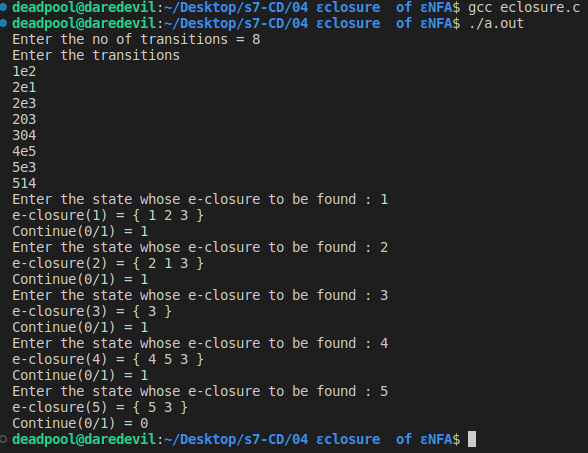
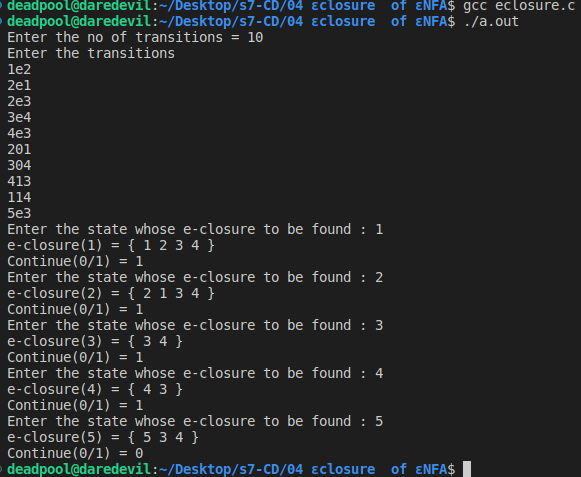
eclosure fixed - also work in case of loops

Changed region(s): [[0.0, 0.0, 0.9914, 1.0]]

diff --git a/04 εclosure  of εNFA/eclosure.c b/04 εclosure  of εNFA/eclosure.c
@@ -5,6 +5,17 @@
 int n,m = 0,p=0;
 char a[10][10],f[10],d[10];
 
+void remove_duplicate(){
+    int i,j;
+    for(i=0;i<m;i++){
+        for(j=i+1;j<m;j++){
+            if(f[i]==f[j]){
+                f[j]='*';
+            }
+        }
+    }
+}
+
 int check(){
     int i,flag=0;
     if(p>=3){
@@ -57,10 +68,13 @@ int main() {
         printf("Enter the state whose e-closure to be found : ");
         scanf("%c",&c);
 
-        printf("e-closure(%c) = { %c ",c,c);
         eclosure(c);
+        remove_duplicate();
+        printf("e-closure(%c) = { %c ",c,c);
         for(i=0;i<m;i++) {
-            printf("%c ",f[i]);
+            if(f[i] != '*'){
+                printf("%c ",f[i]);
+            }
         }
         printf("}\n");
         strcpy(f," ");
